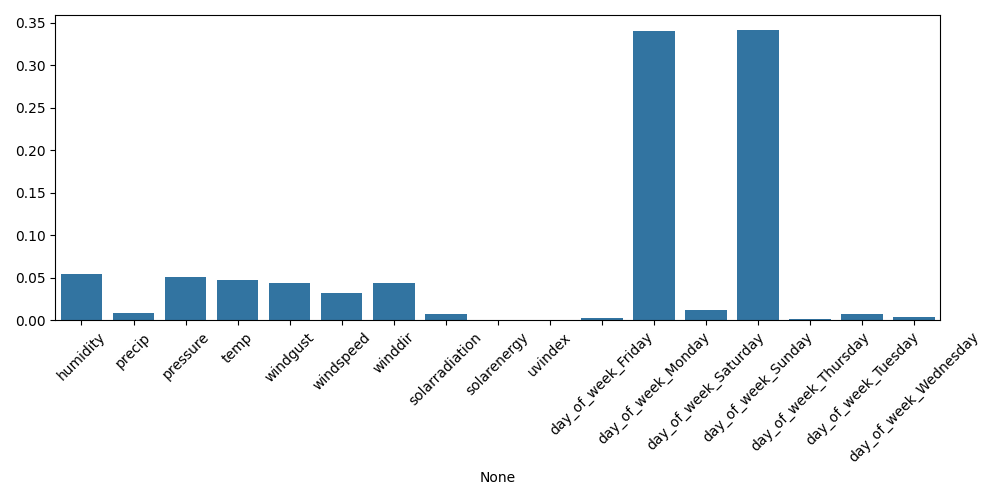
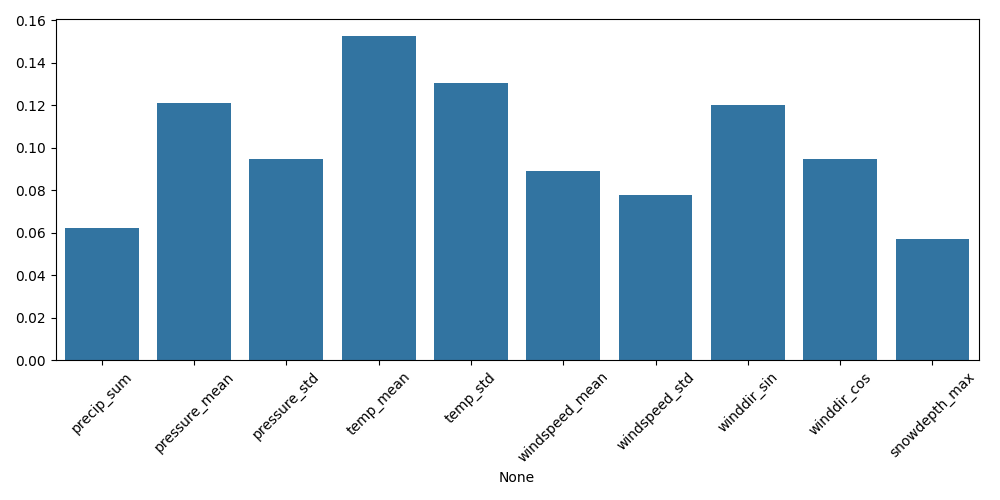
some updates to models and figs

diff --git a/src/hospital_weather/model.py b/src/hospital_weather/model.py
@@ -19,17 +19,29 @@ from common.config import DATA_DIR, FIGURE_DIR, read_data, prepare_data
 if __name__ == '__main__':
     logging.basicConfig(level=logging.INFO)
     # Load the data
-    data = read_data()
-    data, _ = prepare_data(data)
+    # Load the data
+    target = 'cov19'
+    features = [
+        'precip_sum', 
+        'pressure_mean',
+        'pressure_std', 
+        'temp_mean',
+        'temp_std',
+        'windspeed_mean',
+        'windspeed_std',
+        'winddir_sin',
+        'winddir_cos',
+        'snowdepth_max',
+        target,
+    ]
 
-    # one-hot encode day of week
-    logging.info("One-hot encoding day of week")
-    data = pd.get_dummies(data, columns=['day_of_week'])
-
-
+    data = prepare_data(read_data())
+    
+    # only keep target and features
+    data = data[features]
     # Split the data into features and target
-    X = data.drop(columns=['Total admissions'])
-    y = data['Total admissions']
+    X = data.drop(columns=[target])
+    y = data[target]
 
     # Split the data into train and test, we want to use sliding window (use the last N days to predict the next day)
     split = int(0.8 * len(data))

diff --git a/src/hospital_weather/LSTM.py b/src/hospital_weather/LSTM.py
@@ -147,7 +147,7 @@ def train_lstm() -> None:
     plot_history_length = 10
     early_stopping_patience = 100
     early_stopping_min_delta = 0.001
-    scale_target = False
+    scale_target = True
     target = 'cov19'
     features = [
         'precip_sum', 
@@ -330,8 +330,19 @@ def train_lstm() -> None:
 
     with torch.no_grad():
         logging.info('Plotting predictions vs actual')
-        train_pred: np.ndarray = model(X_train).cpu().numpy()[:, :, -1]
-        test_pred: np.ndarray = model(X_test).cpu().numpy()[:, :, -1]
+        
+        if not scale_target:
+            train_pred: np.ndarray = model(X_train).cpu().numpy()[:, :, -1]
+            test_pred: np.ndarray = model(X_test).cpu().numpy()[:, :, -1]
+        else:
+            # manually inverse transform
+            train_pred: np.ndarray = model(X_train).cpu().numpy()[:, :, -1]
+            test_pred: np.ndarray = model(X_test).cpu().numpy()[:, :, -1]
+            train_pred -= scaler.min_[-1]
+            train_pred /= scaler.scale_[-1]
+            test_pred -= scaler.min_[-1]
+            test_pred /= scaler.scale_[-1]
+
 
         real_values = data[target].to_numpy()
 
